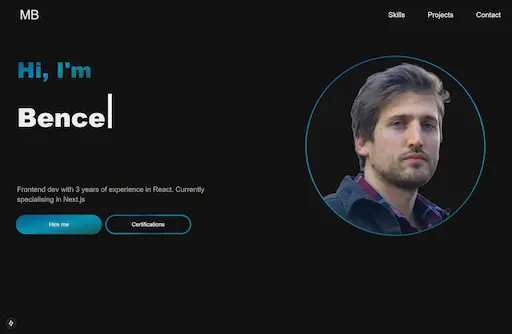
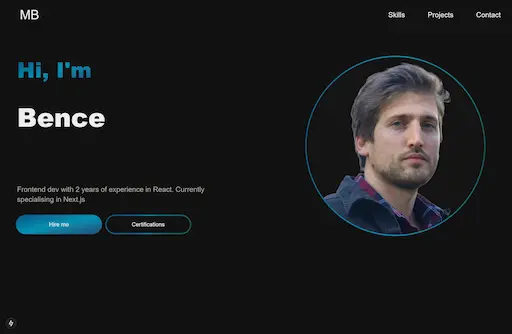
image fix and theme context created

diff --git a/app/_components/ThemeContext.js b/app/_components/ThemeContext.js
@@ -1,0 +1,62 @@
+"use client";
+
+import { createContext, useContext, useEffect, useState } from "react";
+import useMediaQuery from "@/hooks/use-media-query";
+
+const initialState = {
+	theme: "system",
+	setTheme: () => null,
+};
+
+const ThemeContext = createContext(initialState);
+
+export function ThemeProvider({
+	children,
+	defaultTheme = "system",
+	storageKey = "theme",
+	...props
+}) {
+	const [theme, setTheme] = useState(
+		() => localStorage.getItem(storageKey) || defaultTheme,
+	);
+	const prefersDarkMode = useMediaQuery("(prefers-color-scheme: dark)");
+
+	useEffect(() => {
+		const root = window.document.documentElement;
+		root.classList.remove("light", "dark");
+
+		if (theme === "system") {
+			const systemTheme = prefersDarkMode ? "dark" : "light";
+			root.classList.add(systemTheme);
+			return;
+		}
+
+		root.classList.add(theme);
+	}, [theme, prefersDarkMode]);
+
+	const updateTheme = (theme) => {
+		localStorage.setItem(storageKey, theme);
+		setTheme(theme);
+	};
+
+	return (
+		<ThemeContext.Provider
+			{...props}
+			value={{
+				theme,
+				updateTheme,
+			}}
+		>
+			{children}
+		</ThemeContext.Provider>
+	);
+}
+
+export const useTheme = () => {
+	const context = useContext(ThemeContext);
+
+	if (context === undefined)
+		throw new Error("useTheme must be used within a ThemeProvider");
+
+	return context;
+};

diff --git a/app/_components/Main.js b/app/_components/Main.js
@@ -45,7 +45,7 @@ export default function Main() {
 					</h1>
 
 					<p className="text-textSecondary max-w-xl text-center md:text-left text-base sm:text-sm lg:text-lg xl:text-xl mb-6 md:mb-2 md:row-start-3 ">
-						Frontend dev with 3 years of experience in React. Currently
+						Frontend dev with 2 years of experience in React. Currently
 						specialising in Next.js
 					</p>
 					<div className="flex flex-col md:flex-row gap-3 md:justify-start md:gap-4 justify-center items-center md:row-start-4">
